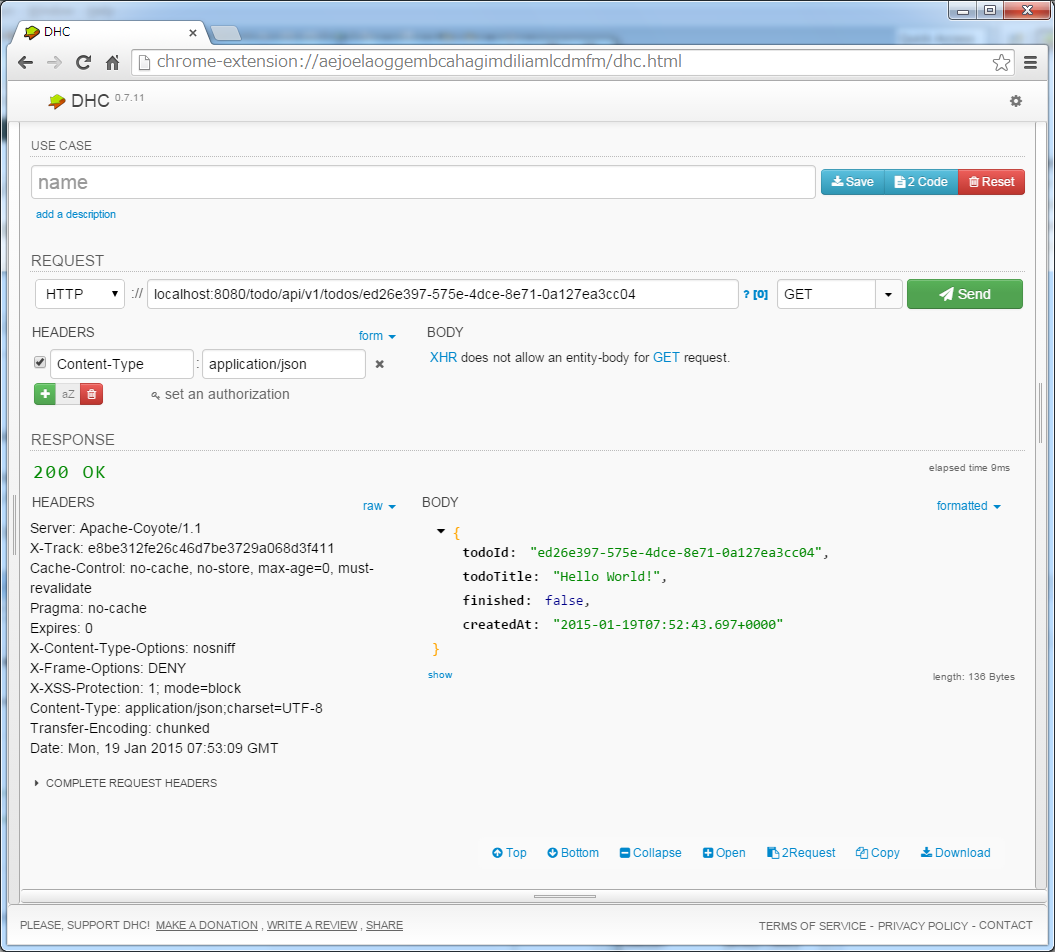
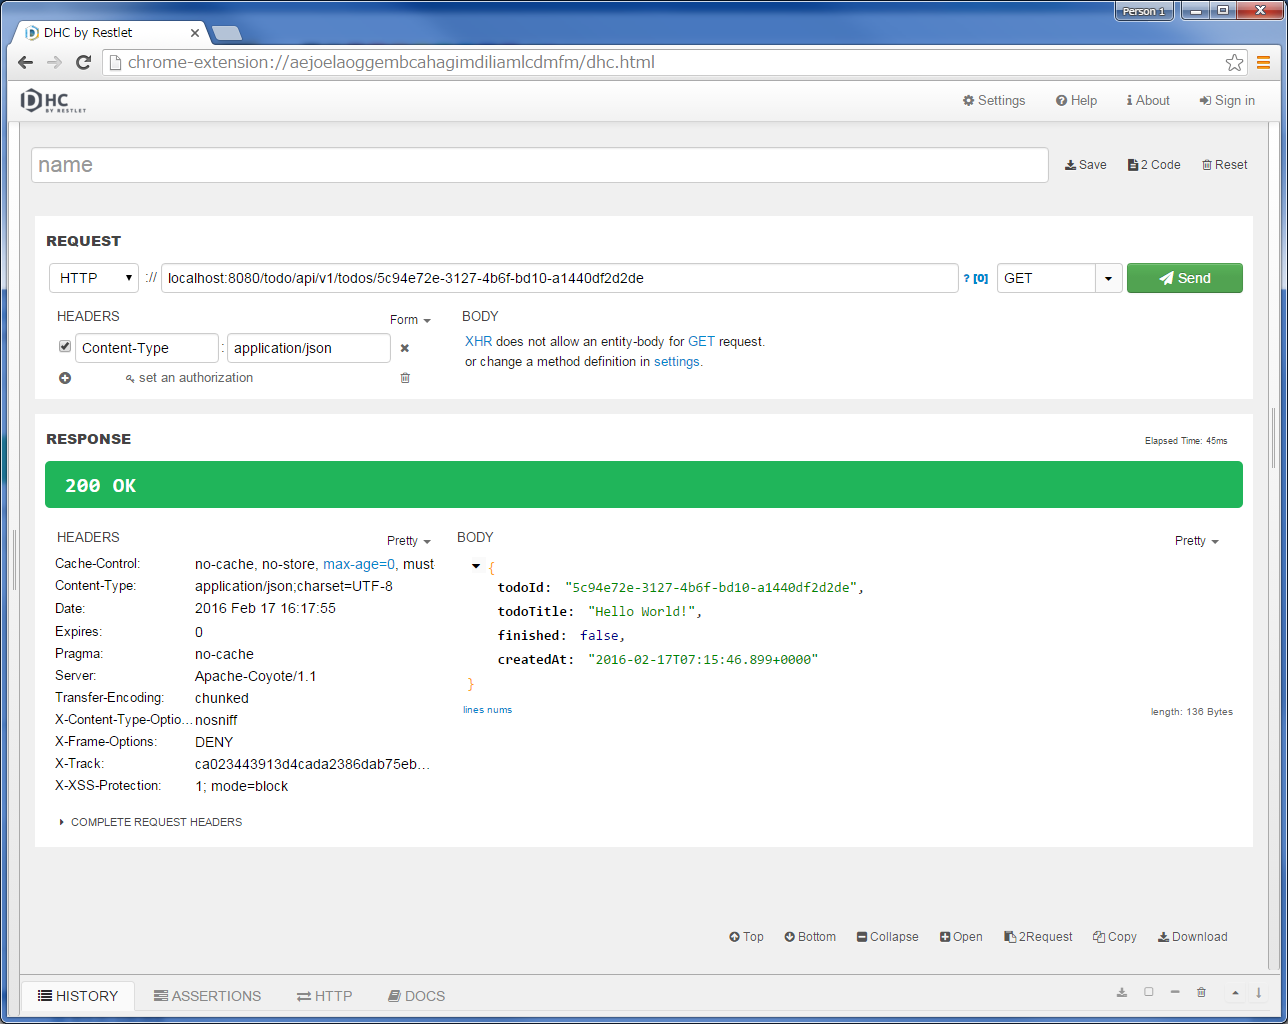
update todo-rest en #1557

diff --git a/source_en/TutorialREST/index.rst b/source_en/TutorialREST/index.rst
@@ -35,7 +35,7 @@ Verification environment
     * - Type
       - Product
     * - REST Client
-      - \ `DHC(aka Dev HTTP Client) <https://chrome.google.com/webstore/detail/dhc-resthttp-api-client/aejoelaoggembcahagimdiliamlcdmfm>`_\  0.7.11
+      - \ `DHC REST Client <https://chrome.google.com/webstore/detail/dhc-resthttp-api-client/aejoelaoggembcahagimdiliamlcdmfm>`_\  1.2.3
     * - Product other than the above
       - Similar to \ :doc:`../TutorialTodo/index`\
 
@@ -70,14 +70,14 @@ Search by entering [dev http client] in search form.
 
 |
 
-Click the [+ FREE] button of Dev HTTP Client.
+Click the [+ ADD TO CHROME] button of DHC REST Client.
 
 .. figure:: ./images_rest/install-dev-http-client4.png
    :width: 80%
 
 |
 
-Click [Add] button.
+Click [Add app] button.
 
 .. figure:: ./images_rest/install-dev-http-client5.png
 
